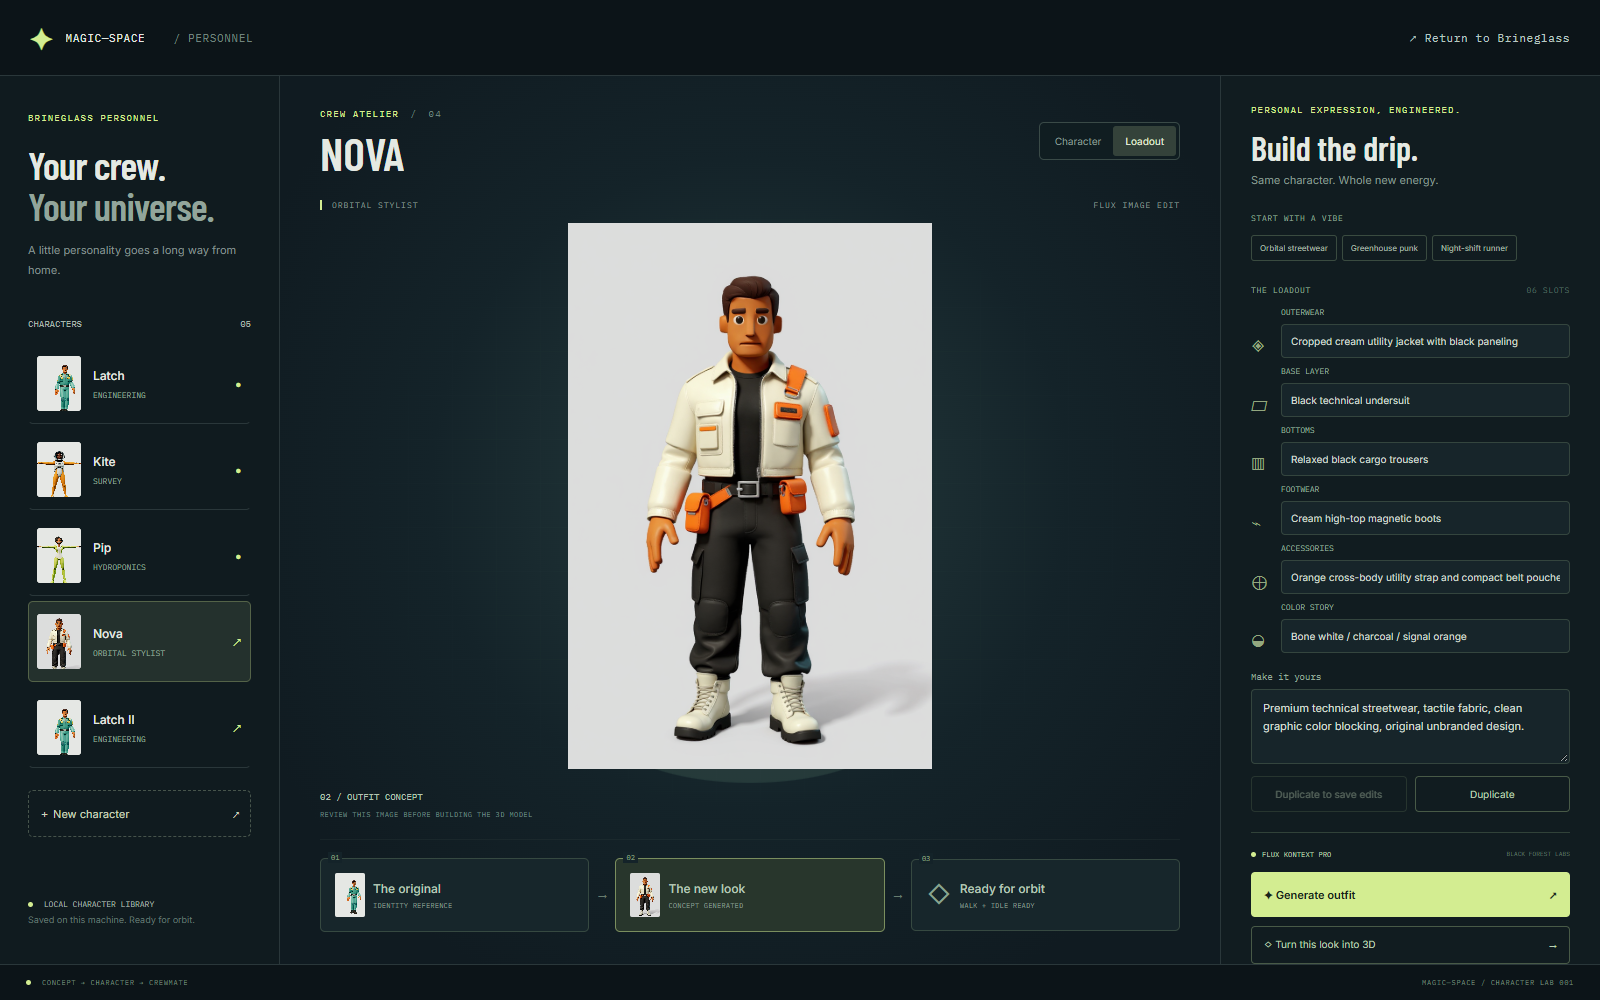
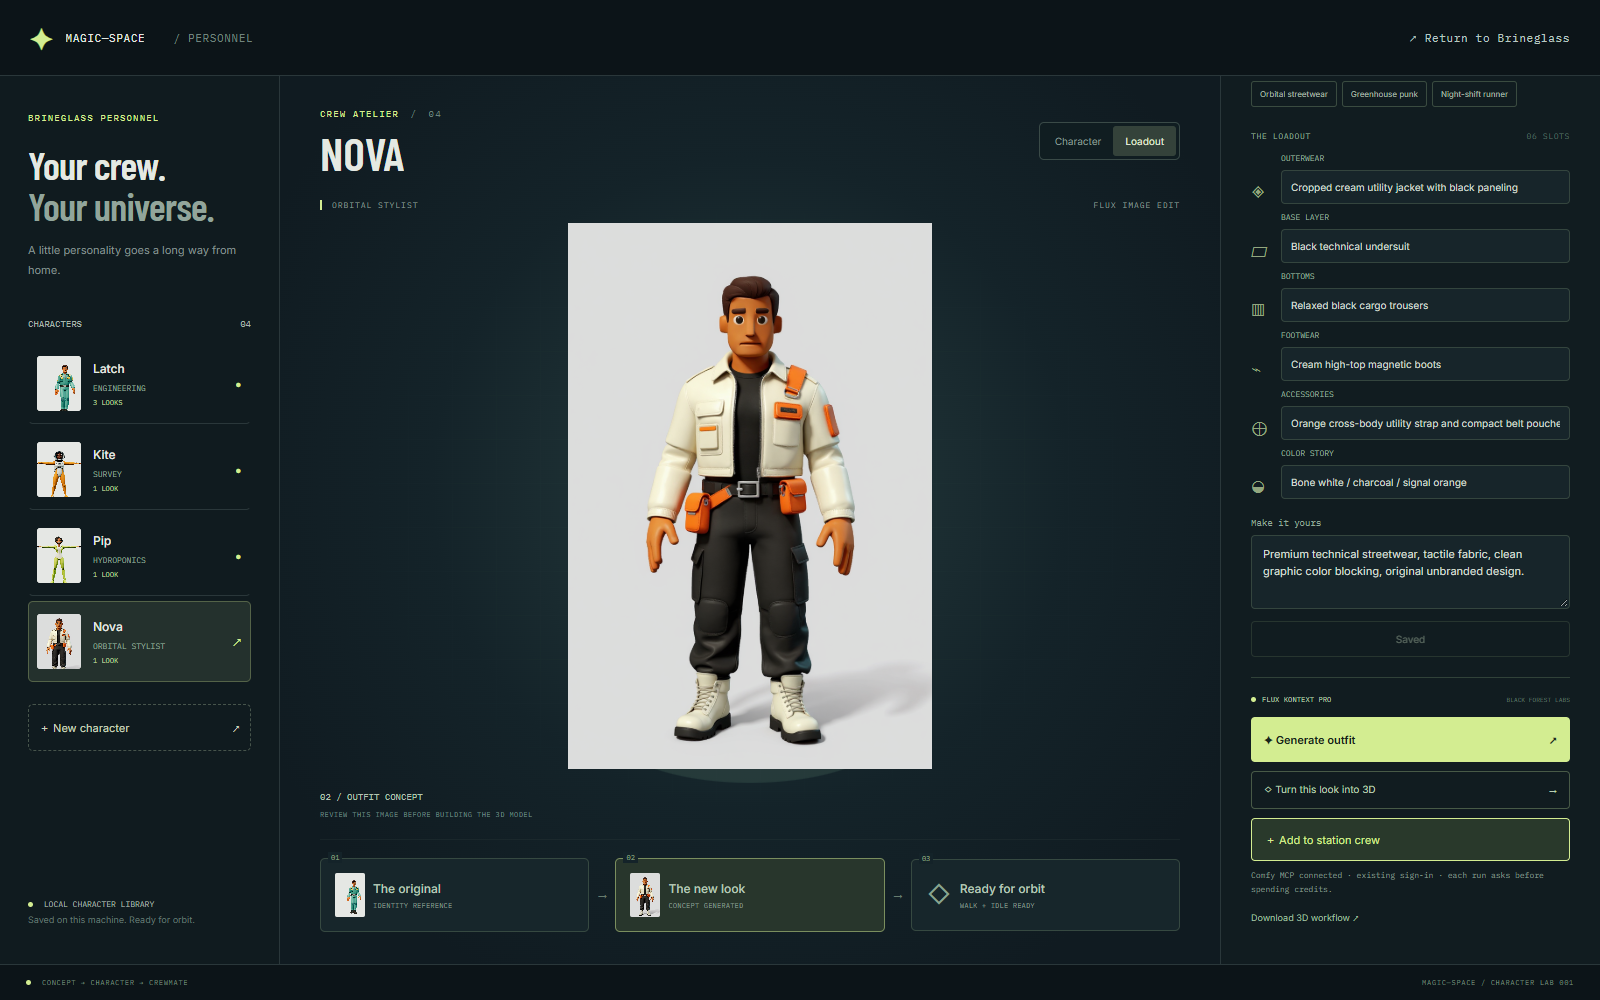
Group outfits in character wardrobes instead of duplicating crew

diff --git a/characters/style.css b/characters/style.css
@@ -1,4 +1,5 @@
 @import url('https://fonts.googleapis.com/css2?family=Barlow+Condensed:wght@500;600;700&family=IBM+Plex+Mono:wght@400;500&family=Inter:wght@400;500;600;700&display=swap');
+.wardrobe{margin-bottom:24px;padding-bottom:16px;border-bottom:1px solid #34453e}.wardrobe .section-label{margin-top:0}#outfit-list{display:grid;grid-template-columns:repeat(2,minmax(0,1fr));gap:8px;margin-bottom:16px;max-height:230px;overflow:auto}.outfit-card{display:flex;align-items:center;gap:8px;padding:8px;border:1px solid #34453e;border-radius:5px;background:#17252a;text-align:left;min-width:0}.outfit-card.selected{border-color:#a7c77b;background:#2b392b}.outfit-card img{width:34px;height:48px;object-fit:cover;border-radius:3px;background:#b7c0b5}.outfit-card span{min-width:0}.outfit-card b{display:block;font-size:10px;font-weight:500;overflow-wrap:anywhere}.outfit-card small{display:block;font:6px var(--mono);color:#9eb18b;margin-top:6px}.roster-card .look-count{color:#b7ce9b;font-size:7px;margin-top:5px}input[readonly]{color:#91a195}
 :root{font-family:Inter,system-ui,sans-serif;color:#e4e9e2;background:#0c1418;--lime:#d3ed91;--muted:#82928f;--line:#2a373a;--mono:'IBM Plex Mono',monospace}*{box-sizing:border-box}body{margin:0}button,input,textarea,select{font:inherit}button,a,input,textarea,select{-webkit-tap-highlight-color:transparent}button,a{color:inherit}a{text-decoration:none}button{cursor:pointer}button:disabled{cursor:not-allowed;opacity:.4}button:focus-visible,a:focus-visible,input:focus-visible,textarea:focus-visible,select:focus-visible{outline:2px solid var(--lime);outline-offset:3px}[hidden]{display:none!important}header{height:76px;border-bottom:1px solid var(--line);display:flex;align-items:center;justify-content:space-between;padding:0 30px;font:11px var(--mono);letter-spacing:.06em}.brand{display:flex;align-items:center;gap:12px}.brand b{color:var(--lime);font-size:28px}.brand span{color:#71847e;margin-left:16px}.return{color:#b9c8c1}.workspace{display:grid;grid-template-columns:248px minmax(420px,1fr) 340px;min-height:calc(100vh - 112px)}.roster{border-right:1px solid var(--line);padding:32px 22px;display:flex;flex-direction:column;background:#101b1f}.eyebrow{font:9px var(--mono);letter-spacing:.13em;color:var(--lime)}h1{font:600 39px/1.05 'Barlow Condensed',Impact,sans-serif;letter-spacing:-.02em;margin:22px 0 14px}h1 em{font-style:normal;color:#92a59b}.subtle{font-size:11px;line-height:1.8;color:var(--muted);margin:0 0 38px}.roster-heading{display:flex;justify-content:space-between;font:9px var(--mono);color:#a7b7ad;margin-bottom:14px}.roster-card{width:100%;display:flex;text-align:left;gap:12px;border:1px solid transparent;border-bottom-color:var(--line);background:transparent;padding:12px 8px;border-radius:5px;align-items:center;margin-bottom:5px}.roster-card.selected{background:#24312d;border-color:#546348}.roster-card img{width:44px;height:55px;object-fit:cover;object-position:50% 25%;background:#b7c0b5;border-radius:3px}.roster-card b{display:block;font-size:12px;font-weight:500}.roster-card small{display:block;font:8px var(--mono);text-transform:uppercase;color:#8fa397;margin-top:7px}.roster-card .indicator{margin-left:auto;font-size:14px;color:var(--lime)}.new-character{background:none;border:1px dashed #46544b;color:#c8d5be;font-size:11px;padding:15px 10px;border-radius:5px;margin-top:17px;text-align:left}.new-character span{float:right}.roster-bottom{margin-top:auto;padding-top:40px;font:8px/2 var(--mono);color:#a0b0a5}.roster-bottom small{font:9px Inter,sans-serif;color:#607770}.dot{display:inline-block;width:5px;height:5px;border-radius:50%;background:var(--lime);margin-right:6px}.studio{position:relative;padding:28px 30px 24px;background:radial-gradient(ellipse at 50% 46%,#263c3e 0%,#142329 48%,#101b21 82%);display:flex;flex-direction:column;min-width:0}.studio-heading{display:flex;justify-content:space-between;align-items:center;z-index:1}.studio-heading h2{font:600 46px/.95 'Barlow Condensed',Impact,sans-serif;text-transform:uppercase;margin:12px 0 0}.studio-heading .eyebrow span{color:#6c827e;margin-left:5px}.tabs{display:flex;border:1px solid #3a4a47;border-radius:5px;padding:3px;background:#101d21}.tabs button{border:0;background:none;color:#899e95;font-size:10px;padding:9px 12px;border-radius:3px}.tabs button[aria-selected=true]{background:#34423a;color:#e0ebd6}.stage{position:relative;min-height:480px;flex:1;isolation:isolate;overflow:hidden}.stage-grid{position:absolute;inset:0;background-image:linear-gradient(#668f7c09 1px,transparent 1px),linear-gradient(90deg,#668f7c09 1px,transparent 1px);background-size:44px 44px;mask-image:radial-gradient(ellipse,#000,transparent 70%);z-index:-1}.stage-orbit{position:absolute;bottom:11%;left:50%;width:260px;height:85px;transform:translateX(-50%);border:1px solid #6e9e8154;border-radius:50%;box-shadow:0 0 0 16px #7fa78408,0 0 0 17px #6e9e8125;background:radial-gradient(ellipse,#a0bd7d14,transparent 65%);z-index:-1}.stage-meta{position:absolute;top:25px;left:0;right:0;display:flex;justify-content:space-between;align-items:center;font:8px var(--mono);letter-spacing:.12em;color:#81958e;z-index:2;pointer-events:none}.stage-meta span:first-child{padding-left:10px;border-left:2px solid var(--lime)}#model-preview{position:absolute;inset:0}#model-preview canvas{display:block;max-width:100%}#look-preview{position:absolute;width:100%;height:100%;object-fit:contain;padding:48px 38px 70px}.stage-loading{position:absolute;top:45%;left:0;right:0;text-align:center;font:10px var(--mono);color:var(--lime);pointer-events:none}.stage-caption{position:absolute;left:0;bottom:20px;display:grid;gap:8px;font:9px var(--mono);color:#b2c5b3;pointer-events:none}.stage-caption small{font-size:7px;letter-spacing:.06em;color:#6d8780}.pose-controls{position:absolute;right:0;bottom:20px;display:flex;gap:3px;z-index:2}.pose-controls button{background:#101d22;border:1px solid #3a4c45;color:#9eb2a5;font-size:9px;padding:8px 11px;border-radius:3px}.pose-controls .selected{background:#334539;border-color:#7c9265;color:#dcedc4}.visual-pipeline{display:flex;gap:8px;align-items:center;padding-top:18px;border-top:1px solid #3c4e472e}.pipeline-step{position:relative;display:flex;gap:8px;align-items:center;flex:1;min-width:0;text-align:left;border:1px solid #364941;background:#17262b;border-radius:5px;padding:10px 6px;color:#b8c8b9;min-height:72px}.pipeline-step.selected{border-color:#7a8e5e;background:#28362c}.pipeline-step img{width:30px;height:44px;object-fit:cover;border-radius:2px}.pipeline-step b{display:block;font-size:10px;font-weight:500}.pipeline-step small{display:block;font:6px var(--mono);letter-spacing:.03em;color:#83998c;margin-top:5px}.step-number{position:absolute;top:-7px;left:7px;background:#142329;padding:1px 3px;font:7px var(--mono);color:#90a481}.pipeline-arrow{color:#667c6e;font-size:12px}.cube{font-size:31px;color:#88a38f}.editor{background:#111c20;border-left:1px solid var(--line);padding:30px 24px;overflow-y:auto;max-height:calc(100vh - 112px)}.editor-header h2{font:600 34px 'Barlow Condensed',Impact,sans-serif;margin:12px 0 5px}.editor-header p{font-size:11px;color:#859b90;margin:0 0 26px}.preset-label,.section-label{font:8px var(--mono);letter-spacing:.08em;color:#8ca393;margin-bottom:12px}.section-label{margin:24px 0 12px;display:flex;justify-content:space-between}.section-label span{color:#536d61}#presets{display:flex;flex-wrap:wrap;gap:5px}#presets button{background:transparent;border:1px solid #3a4b40;padding:7px 8px;border-radius:3px;font-size:8px;color:#a6b8a7}#presets button.active{background:#354531;color:#d8ebc2;border-color:#73865c}label{display:block;font:9px var(--mono);color:#93a99b;margin:0 0 12px}input,textarea,select{display:block;width:100%;border:1px solid #34453e;background:#17252a;color:#d3ded2;padding:10px 11px;border-radius:4px;font:11px/1.6 Inter,sans-serif;margin-top:7px}textarea{resize:vertical}#slots label{padding-left:30px;position:relative;margin-bottom:8px;font-size:8px}#slots label:before{content:attr(data-icon);position:absolute;left:0;top:28px;font-size:17px;color:#93a77f}#slots input{font-size:10px;padding:8px 9px}input::placeholder,textarea::placeholder{color:#5f786d}.notes-label{margin-top:18px}.form-actions{display:flex;gap:8px;margin:12px 0 20px}.form-actions button{flex:1}.secondary{border:1px solid #485a47;border-radius:4px;padding:11px 12px;color:#bbcfb3;background:transparent;font-size:10px}.secondary small{float:right;color:#788e7d;font-size:8px}.primary{width:100%;background:var(--lime);color:#18231a;border:0;border-radius:4px;padding:15px 13px;font-size:11px;font-weight:600;text-align:left}.primary span,.wide span{float:right}.wide{width:100%;margin-top:9px;text-align:left}.deploy{border:1px solid var(--lime);border-radius:4px;padding:13px;color:var(--lime);background:#29392b;font-size:11px}.generation{border-top:1px solid #314239;padding-top:17px}.engine{display:flex;align-items:center;font:7px var(--mono);letter-spacing:.02em;margin-bottom:13px;color:#b7c8ac}.engine span:last-child{margin-left:auto;font-size:6px;color:#617e6c}.connection-note{font:8px/1.7 var(--mono);color:#80978a}.text-button{padding:5px 0;border:0;background:transparent;color:#9dbb9e;font-size:9px}#job-status{font:9px/1.7 var(--mono);color:var(--lime);overflow-wrap:anywhere}.upload-control{border:1px dashed #53694f;padding:12px;margin-top:8px}.upload-control input{padding:0;border:0;font-size:9px}.upload-control span{display:block;margin-top:10px;font-size:8px;color:#677f70}footer{min-height:36px;display:flex;align-items:center;justify-content:space-between;padding:10px 26px;border-top:1px solid var(--line);font:7px var(--mono);letter-spacing:.1em;color:#718579}dialog{width:min(460px,calc(100vw - 32px));background:#17262a;color:#d7e4d2;border:1px solid #607753;border-radius:10px;padding:30px}dialog::backdrop{background:#030b0edb;backdrop-filter:blur(8px)}dialog h2{font:600 34px 'Barlow Condensed',Impact,sans-serif}dialog p{font-size:11px;line-height:1.8;color:#9ab29d}.dialog-close{position:absolute;right:12px;top:10px;background:none;border:0;color:#a1b697;font-size:24px}.dialog-actions{display:flex;gap:10px;margin-top:25px}.dialog-actions button{flex:1;text-align:center}#toast{position:fixed;left:50%;bottom:30px;transform:translateX(-50%);padding:14px 20px;background:#d3ed91;color:#1a291c;border-radius:6px;box-shadow:0 12px 40px #0008;font-size:12px;max-width:calc(100vw - 32px);z-index:10}
 @media(min-width:1500px){.workspace{grid-template-columns:280px minmax(500px,1fr) 380px}.roster{padding:36px 28px}.editor{padding:36px 30px}.stage{min-height:580px}.studio{padding:32px 40px}.pipeline-step{padding:14px}.pipeline-step b{font-size:12px}.pipeline-step small{font-size:7px}}
 @media(max-width:1100px){.workspace{grid-template-columns:180px minmax(320px,1fr) 300px}.roster{padding:26px 14px}.roster h1{font-size:31px}.studio{padding:25px 18px}.editor{padding:26px 18px}.tabs button{padding:8px}.studio-heading h2{font-size:38px}.pipeline-step img,.pipeline-step .cube{display:none}.pipeline-step{padding:14px 7px}.pipeline-step b{font-size:9px}.brand span{display:none}}

diff --git a/characters/index.html b/characters/index.html
@@ -8,8 +8,8 @@
 </section>
 <aside class="editor"><div class="editor-header"><div class="eyebrow">PERSONAL EXPRESSION, ENGINEERED.</div><h2 id="editor-title">Build the drip.</h2><p id="editor-subtitle">Same character. Whole new energy.</p></div>
 <form id="character-form"><div id="identity-fields" hidden><label>Callsign<input id="name" maxlength="60" required></label><label>Station role<input id="role" maxlength="60" required></label><label>Reference image<div class="upload-control"><input id="reference-upload" type="file" accept="image/png,image/jpeg,image/webp"><span>Upload a PNG, JPEG or WebP · max 12 MB</span></div></label><button type="button" id="analyze" class="secondary">✧ Read visual details <small>GPT-6 · paid</small></button><label>Visual identity notes<textarea id="semantic" rows="5" maxlength="2500" placeholder="Optional image-reading notes: face, hair, silhouette…"></textarea></label></div>
-<div id="loadout-fields"><div class="preset-label">START WITH A VIBE</div><div id="presets"></div><div class="section-label">THE LOADOUT <span>06 SLOTS</span></div><div id="slots"></div><label class="notes-label">Make it yours<textarea id="notes" rows="3" maxlength="1800" placeholder="Weathered fabric? A little retro-future? Describe the details."></textarea></label></div>
-<div class="form-actions"><button id="save" type="submit" class="secondary">Save character</button><button type="button" id="duplicate" class="secondary">Duplicate</button></div></form>
+<div id="loadout-fields"><section class="wardrobe"><div class="section-label"><span id="wardrobe-title">Your wardrobe</span><button type="button" id="duplicate" class="text-button">＋ New outfit</button></div><div id="outfit-list"></div><label>Outfit name<input id="outfit-name" maxlength="60" required placeholder="e.g. Orbital streetwear"></label></section><div class="preset-label">START WITH A VIBE</div><div id="presets"></div><div class="section-label">THE LOADOUT <span>06 SLOTS</span></div><div id="slots"></div><label class="notes-label">Make it yours<textarea id="notes" rows="3" maxlength="1800" placeholder="Weathered fabric? A little retro-future? Describe the details."></textarea></label></div>
+<div class="form-actions"><button id="save" type="submit" class="secondary">Save outfit</button></div></form>
 <div class="generation"><div class="engine"><span class="dot"></span><span>FLUX KONTEXT PRO</span><span>BLACK FOREST LABS</span></div><button id="generate-look" class="primary">✦ Generate outfit <span>↗</span></button><button id="generate-model" class="secondary wide">◇ Turn this look into 3D <span>→</span></button><button id="deploy" class="deploy wide" hidden>＋ Add to station crew</button><p id="connection-note" class="connection-note"></p><div id="job-status" role="status" aria-live="polite"></div><button id="export-workflow" class="text-button">Download Comfy workflow ↗</button></div>
 <div id="recovery" hidden><label>Matching Comfy job ID<input id="recover-id" placeholder="UUID from your Comfy job history"></label><button id="recover-job" class="secondary">Attach existing job · no new generation</button></div>
 </aside></main>

diff --git a/README.md b/README.md
@@ -285,10 +285,10 @@ Open **http://127.0.0.1:4194/characters**. The original three crew are reusable 
 
 ### Default character → new drip → 3D
 
-1. **New character** creates a local recruit from a selected base. Choose a preset or edit the six outfit slots. Existing defaults and the bundled sample are duplicated before editing.
+1. The roster lists **one entry per character**. Select a character to see their saved looks in **Loadout → wardrobe**. **New outfit** creates another look for that same person; editing an original saves a new outfit automatically. Name your outfits and switch between their thumbnails. Existing automatic “Latch II” copies appear as looks under Latch, with their assets and job history retained. **New character** is reserved for creating a separately named recruit.
 2. **Generate outfit** sends the character reference and wardrobe description to **FLUX Kontext Pro**. The identity-preserving prompt keeps the face/hair/body while redesigning clothing. Review the actual result under **The new look**.
 3. **Turn this look into 3D** sends that approved image to **Tripo P2 Image to Model**, then rigs a biped skeleton and retargets walk and idle clips. Both GLBs must contain skins and animation before deployment is enabled.
-4. Preview the actual mesh, rotate/zoom it, and switch **Idle / Walk**. **Add to station crew** puts it on the local station roster. Open or reload `/station`; the new crewmate follows the selected base crew member's routine.
+4. Preview the actual mesh, rotate/zoom it, and switch **Idle / Walk**. **Wear this outfit on station** equips an existing crewmate; it replaces their look rather than spawning another person. You can also re-equip their original. **Add to station crew** adds a separately named recruit. Open or reload `/station` to apply the change; new recruits follow their base crew member's routine.
 
 Wardrobe slots describe the next generated outfit. They do not instantly change the current mesh. Clothing is baked into each generated character, not separate detachable equipment; a new outfit needs another image edit and 3D generation. Changing design fields invalidates the previous approval and removes that draft from the deployed roster until rebuilt. An uploaded reference is used by the image model; the original base rig remains the 3D preview until a replacement is generated.
 
